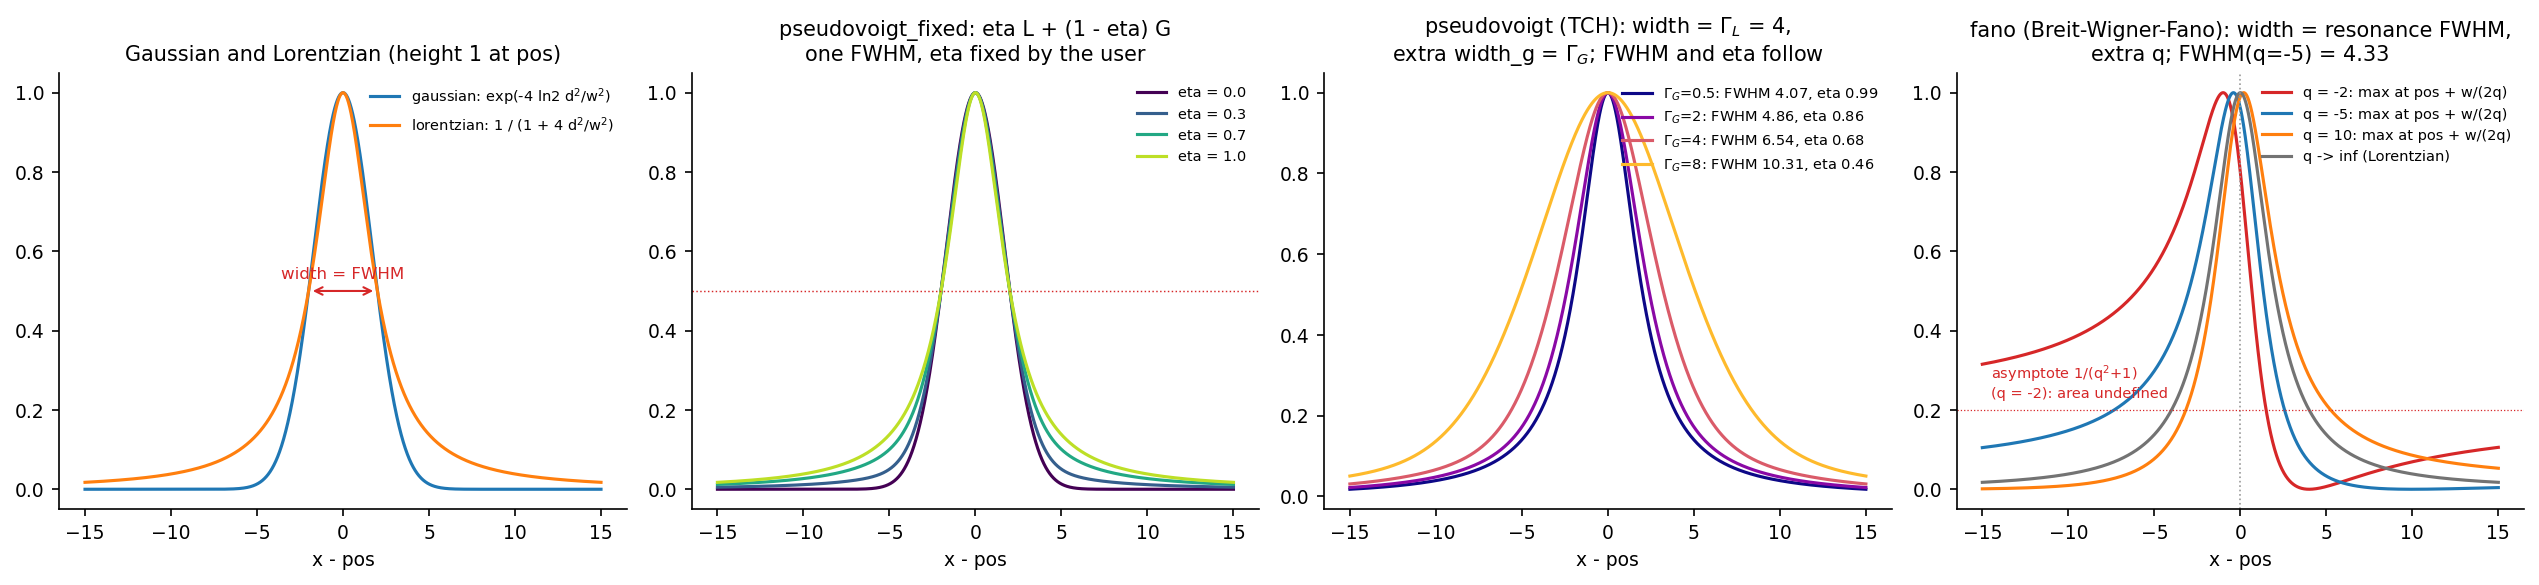
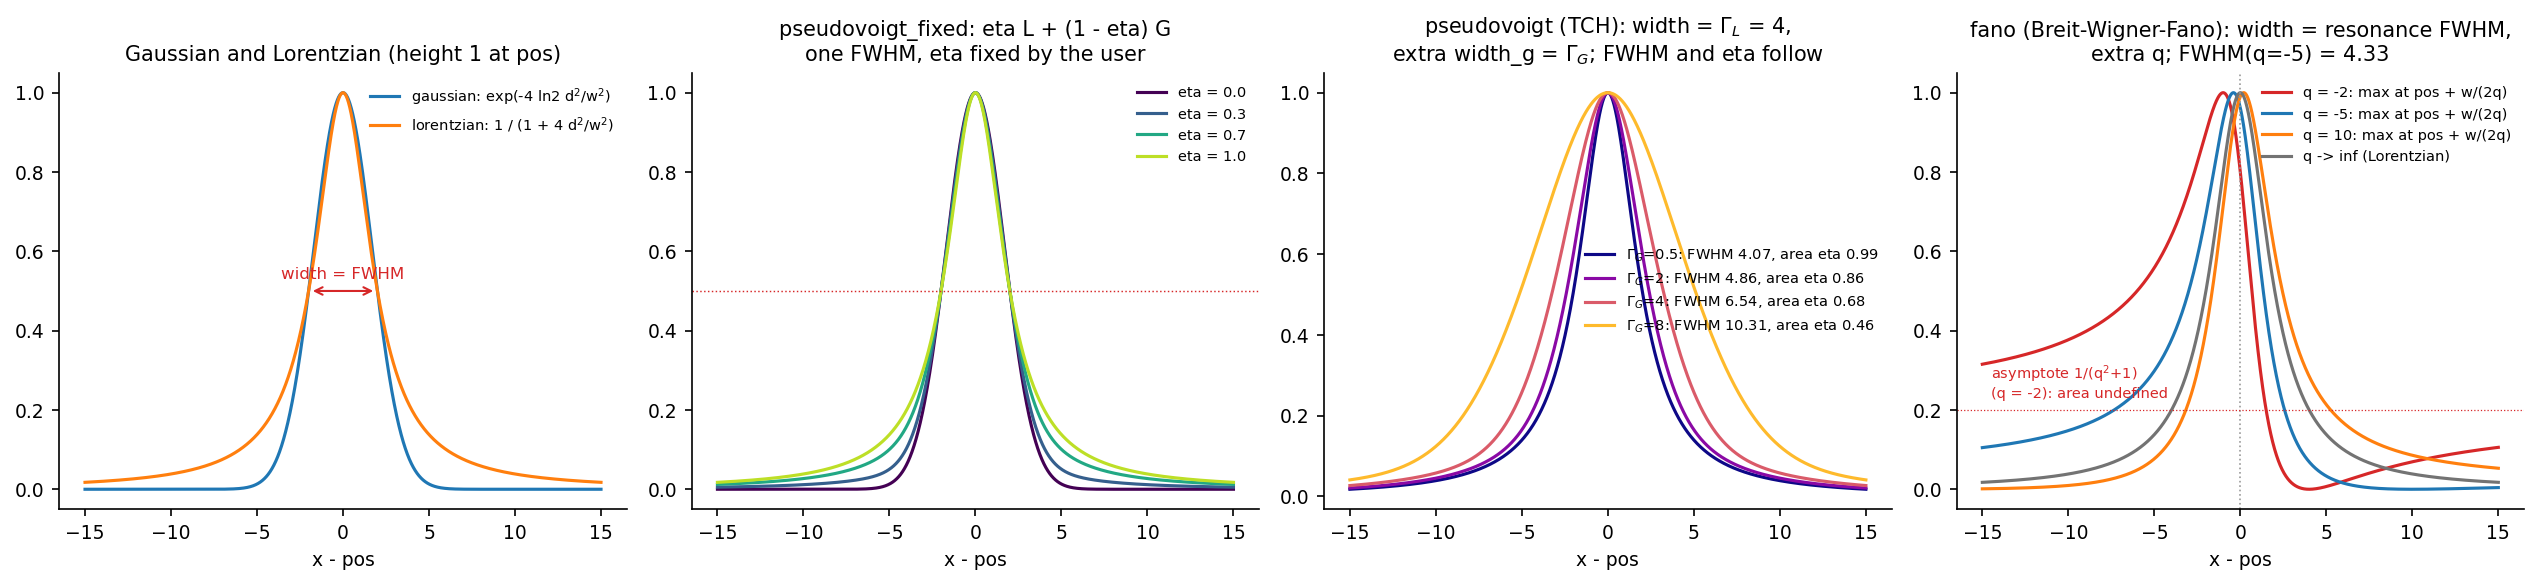
Fix review findings: TCH height fraction, Fano q under axis reversal, peak order, despike details
- TCH pseudo-Voigt: the TCH eta is an area fraction; it is converted to the height fraction of
  the unit-height profile, and the analytic area uses the matching formula (a fitted Voigt now
  returns both widths within 1 %)
- nm -> energy fits mirror the Fano asymmetry (q -> -q, q_range reversed) and keep the
  wavelength order of the peaks, so stage indices and result columns match the nm peak list
- Whitaker-Hayes takes the farthest closing jump that is isolated; the simple despike replaces
  only the samples between the jumps; peak_height ignores a vertex outside the fitted samples;
  the interpolation axis keeps a last point equal to the axis maximum
- tests for each fix; documentation and change table updated

diff --git a/src/hyper_spectral_process/fit/prepare.py b/src/hyper_spectral_process/fit/prepare.py
@@ -139,8 +139,11 @@ def peak_to_energy(peak: PeakSpec, unit: str, reference_nm: float) -> PeakSpec:
 
     ``pos`` maps exactly (``K / lambda``); widths and their limits are scaled
     by ``|dE/d lambda| = K / lambda^2`` at the peak; heights and their limit
-    by the relative Jacobian ``(lambda / reference_nm)^2``. Dimensionless
-    values (regs, ``q``, ``eta``) are unchanged.
+    by the relative Jacobian ``(lambda / reference_nm)^2``. ``E = K / lambda``
+    reverses the axis, so a Fano asymmetry changes sign: ``q -> -q`` and
+    ``q_range (lo, hi) -> (-hi, -lo)``. Regs, ``q_limit`` and ``eta`` are
+    unchanged. The mapping of widths (and of a Fano shape) is first order in
+    the width over the position.
     """
     k = energy_constant(unit)
     lam = float(peak.pos)
@@ -148,13 +151,23 @@ def peak_to_energy(peak: PeakSpec, unit: str, reference_nm: float) -> PeakSpec:
         raise ValueError(f"peak position {lam} nm must be positive")
     scale = k / lam**2
     jac = (lam / reference_nm) ** 2
+    extra = _mirror_extra(peak, scale)
+    return replace(peak, pos=k / lam, width=peak.width * scale, pos_limit=peak.pos_limit * scale,
+                   width_limit=peak.width_limit * scale, height=peak.height * jac,
+                   height_limit=peak.height_limit * jac, extra=extra or None)
+
+
+def _mirror_extra(peak: PeakSpec, scale: float) -> dict:
+    """``extra`` of a peak under an axis reversal: widths scaled, Fano asymmetry mirrored."""
     extra = dict(peak.extra or {})
     for key in ("width_g", "width_g_limit"):
         if key in extra:
             extra[key] = float(extra[key]) * scale
-    return replace(peak, pos=k / lam, width=peak.width * scale, pos_limit=peak.pos_limit * scale,
-                   width_limit=peak.width_limit * scale, height=peak.height * jac,
-                   height_limit=peak.height_limit * jac, extra=extra or None)
+    if peak.type == "fano":
+        lo, hi = peak.get("q_range")
+        extra["q"] = -float(peak.get("q"))
+        extra["q_range"] = (-float(hi), -float(lo))
+    return extra
 
 
 def peak_to_wavelength(peak: PeakSpec, unit: str, reference_nm: float) -> PeakSpec:
@@ -166,10 +179,7 @@ def peak_to_wavelength(peak: PeakSpec, unit: str, reference_nm: float) -> PeakSp
     lam = k / e
     scale = lam**2 / k
     jac = (lam / reference_nm) ** 2
-    extra = dict(peak.extra or {})
-    for key in ("width_g", "width_g_limit"):
-        if key in extra:
-            extra[key] = float(extra[key]) * scale
+    extra = _mirror_extra(peak, scale)
     return replace(peak, pos=lam, width=peak.width * scale, pos_limit=peak.pos_limit * scale,
                    width_limit=peak.width_limit * scale, height=peak.height / jac,
                    height_limit=peak.height_limit / jac, extra=extra or None)
@@ -181,9 +191,16 @@ def _range_to_energy(rng: tuple, k: float) -> tuple:
 
 
 def config_to_energy(cfg: FitConfig, unit: str, reference_nm: float) -> FitConfig:
-    """Convert peaks, fit window and down-weighted ranges of ``cfg`` from nm to ``unit``."""
+    """Convert peaks, fit window and down-weighted ranges of ``cfg`` from nm to ``unit``.
+
+    The fitting order is fixed in the input space (``cfg.fit_peaks()``, i.e. by
+    wavelength when ``sort_peaks_by_pos``) and kept (``sort_peaks_by_pos=False``
+    in the result), so stage ``active`` indices and result columns refer to
+    the same peaks as in nm.
+    """
     k = energy_constant(unit)
-    return replace(cfg, peaks=tuple(peak_to_energy(p, unit, reference_nm) for p in cfg.peaks),
+    return replace(cfg, peaks=tuple(peak_to_energy(p, unit, reference_nm) for p in cfg.fit_peaks()),
+                   sort_peaks_by_pos=False,
                    x_fit_range=None if cfg.x_fit_range is None else _range_to_energy(cfg.x_fit_range, k),
                    downweight_x_ranges=None if not cfg.downweight_x_ranges else
                    tuple(_range_to_energy(r, k) for r in cfg.downweight_x_ranges))

diff --git a/src/hyper_spectral_process/preprocess/despike.py b/src/hyper_spectral_process/preprocess/despike.py
@@ -37,22 +37,20 @@ def _runs(idx: np.ndarray) -> list[tuple[int, int]]:
 def despike_simple(ssm: StandardSpectrumMap, threshold: float) -> StandardSpectrumMap:
     """Replace jumps larger than ``threshold`` (data units) by linear interpolation.
 
-    For every run of consecutive difference indices ``k`` with
-    ``|y[k+1] - y[k]| > threshold``, the samples ``start .. end`` of the run
-    are replaced by the straight line from ``y[start - 1]`` to ``y[end + 1]``.
-    Runs touching either end of the spectrum are left unchanged.
+    For every run of consecutive difference indices ``start .. end`` with
+    ``|y[k+1] - y[k]| > threshold``, the samples between the first and the last
+    jump, ``start + 1 .. end``, are replaced by the straight line from
+    ``y[start]`` to ``y[end + 1]``. A single jump (a step) changes nothing.
     """
     if not threshold > 0:
         raise ValueError(f"threshold must be positive; got {threshold}")
     out = ssm.spectra.copy()
-    m = ssm.n_points
     for row in out:
         jumps = np.flatnonzero(np.abs(np.diff(row)) > threshold)
         for start, end in _runs(jumps):
-            if start == 0 or end >= m - 1:
-                continue
-            n = end - start + 1
-            row[start:end + 1] = np.linspace(row[start - 1], row[end + 1], n + 2)[1:-1]
+            n = end - start
+            if n > 0:
+                row[start + 1:end + 1] = np.linspace(row[start], row[end + 1], n + 2)[1:-1]
     return ssm.replace(spectra=out)
 
 
@@ -65,10 +63,10 @@ def whitaker_hayes_mask(spectra: np.ndarray, threshold: float = 7.0, max_width: 
 
     * a jump ``i`` with ``|z_i| > threshold``,
     * followed within ``max_width`` samples by a jump ``j`` of the opposite
-      sign with ``|z_j| > threshold`` (the largest such jump is taken),
+      sign with ``|z_j| > threshold``,
     * with ordinary differences just outside the pair (``|z_{i-1}|`` and
       ``|z_{j+1}| <= threshold``): the spike stands on a background that is
-      flat at the noise level.
+      flat at the noise level. The farthest ``j`` that satisfies this is taken.
 
     The samples ``i + 1 .. j`` between the two jumps are flagged. The pair
     condition keeps the steep flanks of real bands from being flagged and the
@@ -85,17 +83,15 @@ def whitaker_hayes_mask(spectra: np.ndarray, threshold: float = 7.0, max_width: 
     spectra = np.atleast_2d(spectra)
     z = modified_zscore(np.diff(spectra, axis=1))
     mask = np.zeros(spectra.shape, dtype=bool)
+    n_diff = z.shape[1]
     for r, i in zip(*np.nonzero(np.abs(z) > threshold)):
-        after = z[r, i + 1:i + 1 + max_width]
-        if after.size == 0:
-            continue
+        if i > 0 and abs(z[r, i - 1]) > threshold:
+            continue                          # the jump continues a run of large differences
         sign = 1.0 if z[r, i] > 0 else -1.0
-        opposite = -sign * after              # > threshold where the jump has the opposite sign
-        a = int(np.argmax(opposite))
-        j = i + 1 + a
-        isolated = (i == 0 or abs(z[r, i - 1]) <= threshold) and (j + 1 >= z.shape[1] or abs(z[r, j + 1]) <= threshold)
-        if opposite[a] > threshold and isolated:
-            mask[r, i + 1:j + 1] = True
+        for j in range(min(i + max_width, n_diff - 1), i, -1):     # farthest closing jump first
+            if -sign * z[r, j] > threshold and (j + 1 >= n_diff or abs(z[r, j + 1]) <= threshold):
+                mask[r, i + 1:j + 1] = True
+                break
     return mask
 
 

diff --git a/src/hyper_spectral_process/fit/lineshapes.py b/src/hyper_spectral_process/fit/lineshapes.py
@@ -15,10 +15,14 @@ arrays or torch tensors (``d = x - pos``):
   mixing ``eta`` through
 
       Gamma^5 = G^5 + 2.69269 G^4 L + 2.42843 G^3 L^2 + 4.47163 G^2 L^3 + 0.07842 G L^4 + L^5
-      eta     = 1.36603 r - 0.47719 r^2 + 0.11116 r^3,   r = L / Gamma
+      eta     = 1.36603 r - 0.47719 r^2 + 0.11116 r^3,   r = L / Gamma.
 
-  and the profile is ``eta L(x; Gamma) + (1 - eta) G(x; Gamma)``, an
-  approximation of the Voigt profile within about 1 %.
+  ``eta`` is the Lorentzian fraction of the *area*: the Voigt profile is
+  approximated by ``eta L_a + (1 - eta) G_a`` with unit-area components of
+  FWHM ``Gamma`` (within about 1 %). Scaled to unit height this is
+  ``eta_h L + (1 - eta_h) G`` with the height fraction
+  ``eta_h = (eta / C_L) / (eta / C_L + (1 - eta) / C_G)`` (``C_G``, ``C_L``: the
+  area per unit FWHM of a unit-height Gaussian and Lorentzian).
 * Breit-Wigner-Fano with resonance FWHM ``w`` (``gamma = w / 2``) and
   asymmetry ``q``:
 
@@ -82,10 +86,16 @@ def tch_fwhm_eta(width_g, width_l):
     return fwhm, _clip01(b[0] * r + b[1] * r**2 + b[2] * r**3)
 
 
+def tch_height_fraction(eta):
+    """Lorentzian fraction of the peak height for the area fraction ``eta`` (same FWHM)."""
+    a = eta / AREA_C_LORENTZ
+    return a / (a + (1.0 - eta) / AREA_C_GAUSS)
+
+
 def pseudo_voigt_tch(x, pos, width_l, width_g):
-    """TCH pseudo-Voigt from the Lorentzian FWHM ``width_l`` and the Gaussian FWHM ``width_g``."""
+    """Unit-height TCH pseudo-Voigt from the Lorentzian FWHM ``width_l`` and the Gaussian FWHM ``width_g``."""
     fwhm, eta = tch_fwhm_eta(width_g, width_l)
-    return pseudo_voigt(x, pos, fwhm, eta)
+    return pseudo_voigt(x, pos, fwhm, tch_height_fraction(eta))
 
 
 def fano(x, pos, width, q):
@@ -99,9 +109,11 @@ def fano(x, pos, width, q):
 def peak_area(peak_type: str, height, width, eta=None, width_g=None):
     """Analytic integral of ``height * profile`` over the whole axis (NumPy).
 
-    Gaussian, Lorentzian and fixed-eta pseudo-Voigt: ``height * width *
-    ((1 - eta) C_G + eta C_L)``; TCH pseudo-Voigt: the same with the profile
-    FWHM and eta from :func:`tch_fwhm_eta`; Fano: NaN (divergent integral).
+    Gaussian, Lorentzian and fixed-eta pseudo-Voigt (``eta`` = height
+    fraction): ``height * width * ((1 - eta) C_G + eta C_L)``; TCH
+    pseudo-Voigt (``eta`` = area fraction from :func:`tch_fwhm_eta`, the width
+    arguments are used): ``height * Gamma / (eta / C_L + (1 - eta) / C_G)``;
+    Fano: NaN (divergent integral).
     """
     height = np.asarray(height, dtype=np.float64)
     width = np.asarray(width, dtype=np.float64)
@@ -109,6 +121,7 @@ def peak_area(peak_type: str, height, width, eta=None, width_g=None):
         return np.full(np.broadcast(height, width).shape, np.nan)
     if peak_type == "pseudovoigt":
         fwhm, e = tch_fwhm_eta(np.asarray(width_g, dtype=np.float64), width)
+        return height * fwhm / (e / AREA_C_LORENTZ + (1.0 - e) / AREA_C_GAUSS)
     else:
         fwhm = width
         e = {"gaussian": 0.0, "lorentzian": 1.0}.get(peak_type, eta)

diff --git a/tests/test_preprocess.py b/tests/test_preprocess.py
@@ -70,6 +70,25 @@ def test_whitaker_hayes_keeps_sharp_strong_band_top():
     assert np.flatnonzero(mask).tolist() == [60]
 
 
+@pytest.mark.parametrize("bump", [(80.0, 20.0), (20.0, 80.0), (100.0, 30.0)])
+def test_whitaker_hayes_two_sample_spike_shapes(bump):
+    y = 20 + np.random.default_rng(5).normal(0, 1.0, 300)
+    y[100:102] += bump
+    mask = whitaker_hayes_mask(y[None, :], threshold=7.0, max_width=2)[0]
+    assert np.flatnonzero(mask).tolist() == [100, 101]
+
+
+def test_simple_despike_keeps_clean_neighbours():
+    y = np.full(12, 20.0)
+    y[1] = 21.0
+    y[2] = 90.0
+    out = despike_simple(one(y), 30.0).spectra[0]
+    assert out[1] == 21.0 and out[2] == pytest.approx(20.5)
+    z = np.full(12, 20.0)
+    z[1] = 90.0                                   # a spike on the second sample is removed too
+    assert despike_simple(one(z), 30.0).spectra[0, 1] == pytest.approx(20.0)
+
+
 def test_whitaker_hayes_protect_and_zero_mad():
     x, y = noisy_band()
     y[100] += 80.0
@@ -121,6 +140,9 @@ def test_peak_height_refine():
     y = gauss(x, 5.03, 2.0)
     assert peak_height(x, y, (4, 6), refine=2) == pytest.approx(1.0, abs=2e-4)
     assert peak_height(x, y, (4, 6), refine=0) < 1.0
+    xs = np.arange(101.0)
+    slope = 1 - (xs - 200) ** 2 / 1e5                           # no peak top inside the window
+    assert peak_height(xs, slope, (40, 60), refine=2) == pytest.approx(slope[60])
 
 
 # --------------------------------------------------------------- baseline
@@ -171,6 +193,7 @@ def test_interpolation_axis_rule():
     ax = interpolation_axis(np.array([139.9, 200.3]), 2.0)
     assert ax[0] == 140.0 and ax[-1] == 200.0
     assert interpolation_axis(np.array([140.0, 150.0]), 1.0)[0] == 141.0   # strictly greater than the minimum
+    assert interpolation_axis(np.array([0.5, 1000.3]), 0.1)[-1] == pytest.approx(1000.3)   # no rounding loss
     m = one(np.linspace(0, 1, 50)[None, :] * 2, np.linspace(10.5, 59.5, 50))
     out = interpolate(m, 0.5)
     np.testing.assert_allclose(out.spectra[0], (out.axis - 10.5) / 49.0 * 2, atol=1e-12)

diff --git a/tests/test_fit.py b/tests/test_fit.py
@@ -127,6 +127,26 @@ def test_energy_space_fit_applies_jacobian():
     assert back.pos == pytest.approx(p_nm.pos) and back.width == pytest.approx(p_nm.width)
 
 
+def test_energy_conversion_mirrors_fano_and_keeps_peak_order():
+    from hyper_spectral_process.fit import config_to_energy
+    from hyper_spectral_process.fit.lineshapes import fano
+    f = PeakSpec("fano", 650.0, 10.0, 1.0, 5.0, 0.0, 5.0, 0.0, 0.5, 0.0, extra={"q": 3.0, "q_range": (0.5, 50.0)})
+    e = peak_to_energy(f, "eV", 650.0)
+    assert e.get("q") == -3.0 and e.get("q_range") == (-50.0, -0.5)
+    g = peak("gaussian", 600.0, 10.0, 1.0)
+    cfg = config_to_energy(FitConfig((f, g), FAST), "eV", 650.0)
+    assert [p.type for p in cfg.fit_peaks()] == ["gaussian", "fano"]          # nm order kept
+    lam = np.linspace(560, 760, 1500)
+    band_e = fano(HC_EV_NM / lam, 1.90, 0.08, -3.0)                         # q = -3 per unit energy
+    m = StandardSpectrumMap((band_e * HC_EV_NM / lam**2)[None, :], [[0.0, 0.0]], lam, "nm")
+    p_nm = PeakSpec("fano", HC_EV_NM / 1.89, 25.0, 1.0, 10.0, 0.0, 10.0, 0.0, 0.5, 0.0,
+                    extra={"q": 2.5, "q_range": (0.5, 50.0)})                # the asymmetry as seen in nm
+    r = fit_map(m, FitConfig((p_nm,), (StageSpec("a", 3000, 2e-3), StageSpec("b", 2000, 2e-4)), fit_baseline=True,
+                             x_fit_range=(580, 740)),
+                MapFitOptions(fit_axis_space="eV", skip_low_signal=False)).result
+    assert r.q[0, 0] == pytest.approx(-3.0, rel=0.03) and r.pos[0, 0] == pytest.approx(1.90, abs=1e-3)
+
+
 def test_options_fail_loudly():
     sm = two_peak_map(shape=(2, 2))
     cfg = FitConfig((peak("lorentzian", 384, 5, 0.9),), FAST)

diff --git a/tests/test_lineshapes.py b/tests/test_lineshapes.py
@@ -2,6 +2,7 @@ import numpy as np
 import pytest
 import torch
 from scipy.integrate import quad
+from scipy.optimize import least_squares
 from scipy.special import voigt_profile
 
 from hyper_spectral_process.fit.lineshapes import (fano, gaussian, lorentzian, peak_area, peak_fwhm, pseudo_voigt,
@@ -36,6 +37,19 @@ def test_tch_limits_and_voigt_accuracy():
     assert tch.max() == pytest.approx(1.0)
     assert numeric_fwhm(X, tch) == pytest.approx(numeric_fwhm(X, voigt), rel=0.01)
     assert np.max(np.abs(tch - voigt)) < 0.02             # TCH approximates the Voigt profile within ~1 %
+
+
+@pytest.mark.parametrize("gl,gg", [(3.0, 3.0), (1.0, 3.0), (3.0, 1.5)])
+def test_tch_fit_of_a_voigt_recovers_both_widths(gl, gg):
+    x = np.linspace(-40, 40, 8001)
+    sigma, gamma = gg / (2 * np.sqrt(2 * np.log(2))), gl / 2
+    v = voigt_profile(x, sigma, gamma)
+    area = 1.0 / v.max()                          # area of the unit-height Voigt profile
+    v = v / v.max()
+    fit = least_squares(lambda p: p[2] * pseudo_voigt_tch(x, 0.0, p[0], p[1]) - v, x0=[2.0, 2.0, 1.0],
+                        bounds=(0.01, 20))                 # widths and height free, as in a peak fit
+    np.testing.assert_allclose(fit.x[:2], [gl, gg], rtol=0.01)
+    assert float(peak_area("pseudovoigt", 1.0, gl, width_g=gg)) == pytest.approx(area, rel=0.005)
 
 
 def test_fano_shape():

diff --git a/src/hyper_spectral_process/preprocess/normalize.py b/src/hyper_spectral_process/preprocess/normalize.py
@@ -26,8 +26,9 @@ def peak_height(axis: np.ndarray, y: np.ndarray, window: tuple[float, float], re
     ``refine = k > 0`` fits a parabola through the maximum and its ``k``
     neighbours on each side and returns the vertex value, which keeps
     single-sample noise out of the scale factor. If the maximum is closer than
-    ``k`` samples to the spectrum edge, or the parabola is not concave, the
-    sample maximum is returned.
+    ``k`` samples to the spectrum edge, the parabola is not concave, or its
+    vertex lies outside the fitted samples (the window does not contain a
+    peak top), the sample maximum is returned.
     """
     inside = (axis >= float(window[0])) & (axis <= float(window[1]))
     if not inside.any():
@@ -42,6 +43,8 @@ def peak_height(axis: np.ndarray, y: np.ndarray, window: tuple[float, float], re
     if c[0] >= 0:
         return float(y[k])
     vertex = -c[1] / (2.0 * c[0])
+    if not axis[k - refine] - axis[k] <= vertex <= axis[k + refine] - axis[k]:
+        return float(y[k])
     return float(np.polyval(c, vertex))
 
 

diff --git a/src/hyper_spectral_process/preprocess/baseline.py b/src/hyper_spectral_process/preprocess/baseline.py
@@ -95,9 +95,10 @@ def peakstrip_baseline(y: np.ndarray, window_min: int, window_max: int, polyorde
     The spectrum is padded on both sides with ``ceil(M / 2)`` copies of its end
     values. Then, for the windows of :func:`strip_windows`, it is repeatedly
     replaced by ``min(s, savgol(s, w, polyorder))``; the area removed by each
-    iteration is recorded and the loop stops at the first local minimum of
-    that area (the result of that iteration is the baseline). If no minimum
-    occurs, the last iteration is used. Samples in the boolean ``protect``
+    iteration is recorded and, from the fourth iteration on, the loop stops as
+    soon as the area of the previous iteration is a local minimum (smaller
+    than its two neighbours); the result of that iteration is the baseline.
+    If no minimum occurs, the last iteration is used. Samples in the boolean ``protect``
     mask are first bridged by :func:`fill_masked`, so the baseline cannot
     follow a protected peak.
     """

diff --git a/src/hyper_spectral_process/preprocess/interpolate.py b/src/hyper_spectral_process/preprocess/interpolate.py
@@ -25,7 +25,8 @@ def interpolation_axis(source_axis: np.ndarray, step: float, round_decimals: Opt
     if not (math.isfinite(step) and step > 0):
         raise ValueError(f"interpolation step must be a positive finite number; got {step}")
     start = float(math.floor(src.min()) + 1)
-    n = int(np.floor((src.max() - start) / step)) + 1 if start <= src.max() else 0
+    # the relative tolerance keeps a last point that equals the maximum up to rounding
+    n = int(np.floor((src.max() - start) / step + 1e-9)) + 1 if start <= src.max() else 0
     if n < 2:
         raise ValueError(f"interpolation axis needs at least 2 points (start {start}, axis max {src.max()}, "
                          f"step {step})")

diff --git a/src/hyper_spectral_process/fit/initial_guess.py b/src/hyper_spectral_process/fit/initial_guess.py
@@ -119,8 +119,9 @@ def format_peaks_block(peaks, *, conversion: Optional[dict] = None, variable: st
 
     Refined peaks of an energy-space fit are converted back to the input
     unit (nm) when ``conversion`` (the ``PreparedMap.conversion`` record) is
-    given. Values are rounded for readability (positions and widths to 4
-    significant digits, heights to 3 decimals); regs are kept exactly.
+    given. Values are rounded for readability (positions to 6 and widths and
+    limits to 4 significant digits, heights to 3 decimals); regs are kept
+    exactly.
     """
     lines = [f"{variable} = ["]
     for p in peaks:

diff --git a/docs/figures/make_lineshapes.py b/docs/figures/make_lineshapes.py
@@ -39,7 +39,7 @@ def main(cfg: AppConfig) -> None:
     for wg, c in zip((0.5, 2.0, 4.0, 8.0), plt.get_cmap("plasma")(np.linspace(0, 0.85, 4))):
         fw, eta = tch_fwhm_eta(np.array(wg), np.array(w))
         ax.plot(x, pseudo_voigt_tch(x, 0, w, wg), color=c,
-                label=f"$\\Gamma_G$={wg:g}: FWHM {float(fw):.2f}, eta {float(eta):.2f}")
+                label=f"$\\Gamma_G$={wg:g}: FWHM {float(fw):.2f}, area eta {float(eta):.2f}")
     ax.set_title(f"pseudovoigt (TCH): width = $\\Gamma_L$ = {w:g},\nextra width_g = $\\Gamma_G$; FWHM and eta follow")
     ax.legend(fontsize=7)
 

diff --git a/src/hyper_spectral_process/fit/variants.py b/src/hyper_spectral_process/fit/variants.py
@@ -47,7 +47,7 @@ class VariantSelection:
     """Per-pixel choice between ``K`` variants (arrays ``(K, N)`` unless noted)."""
 
     names: tuple
-    variant_id: np.ndarray        # (N,) index of the winner, -1 where no variant is valid
+    variant_id: np.ndarray        # (N,) index of the winner, -1 where any variant is invalid
     k_params: np.ndarray          # (K,)
     bic: np.ndarray               # BIC including the drift penalty (inf where invalid)
     bic_raw: np.ndarray           # BIC without the penalty
